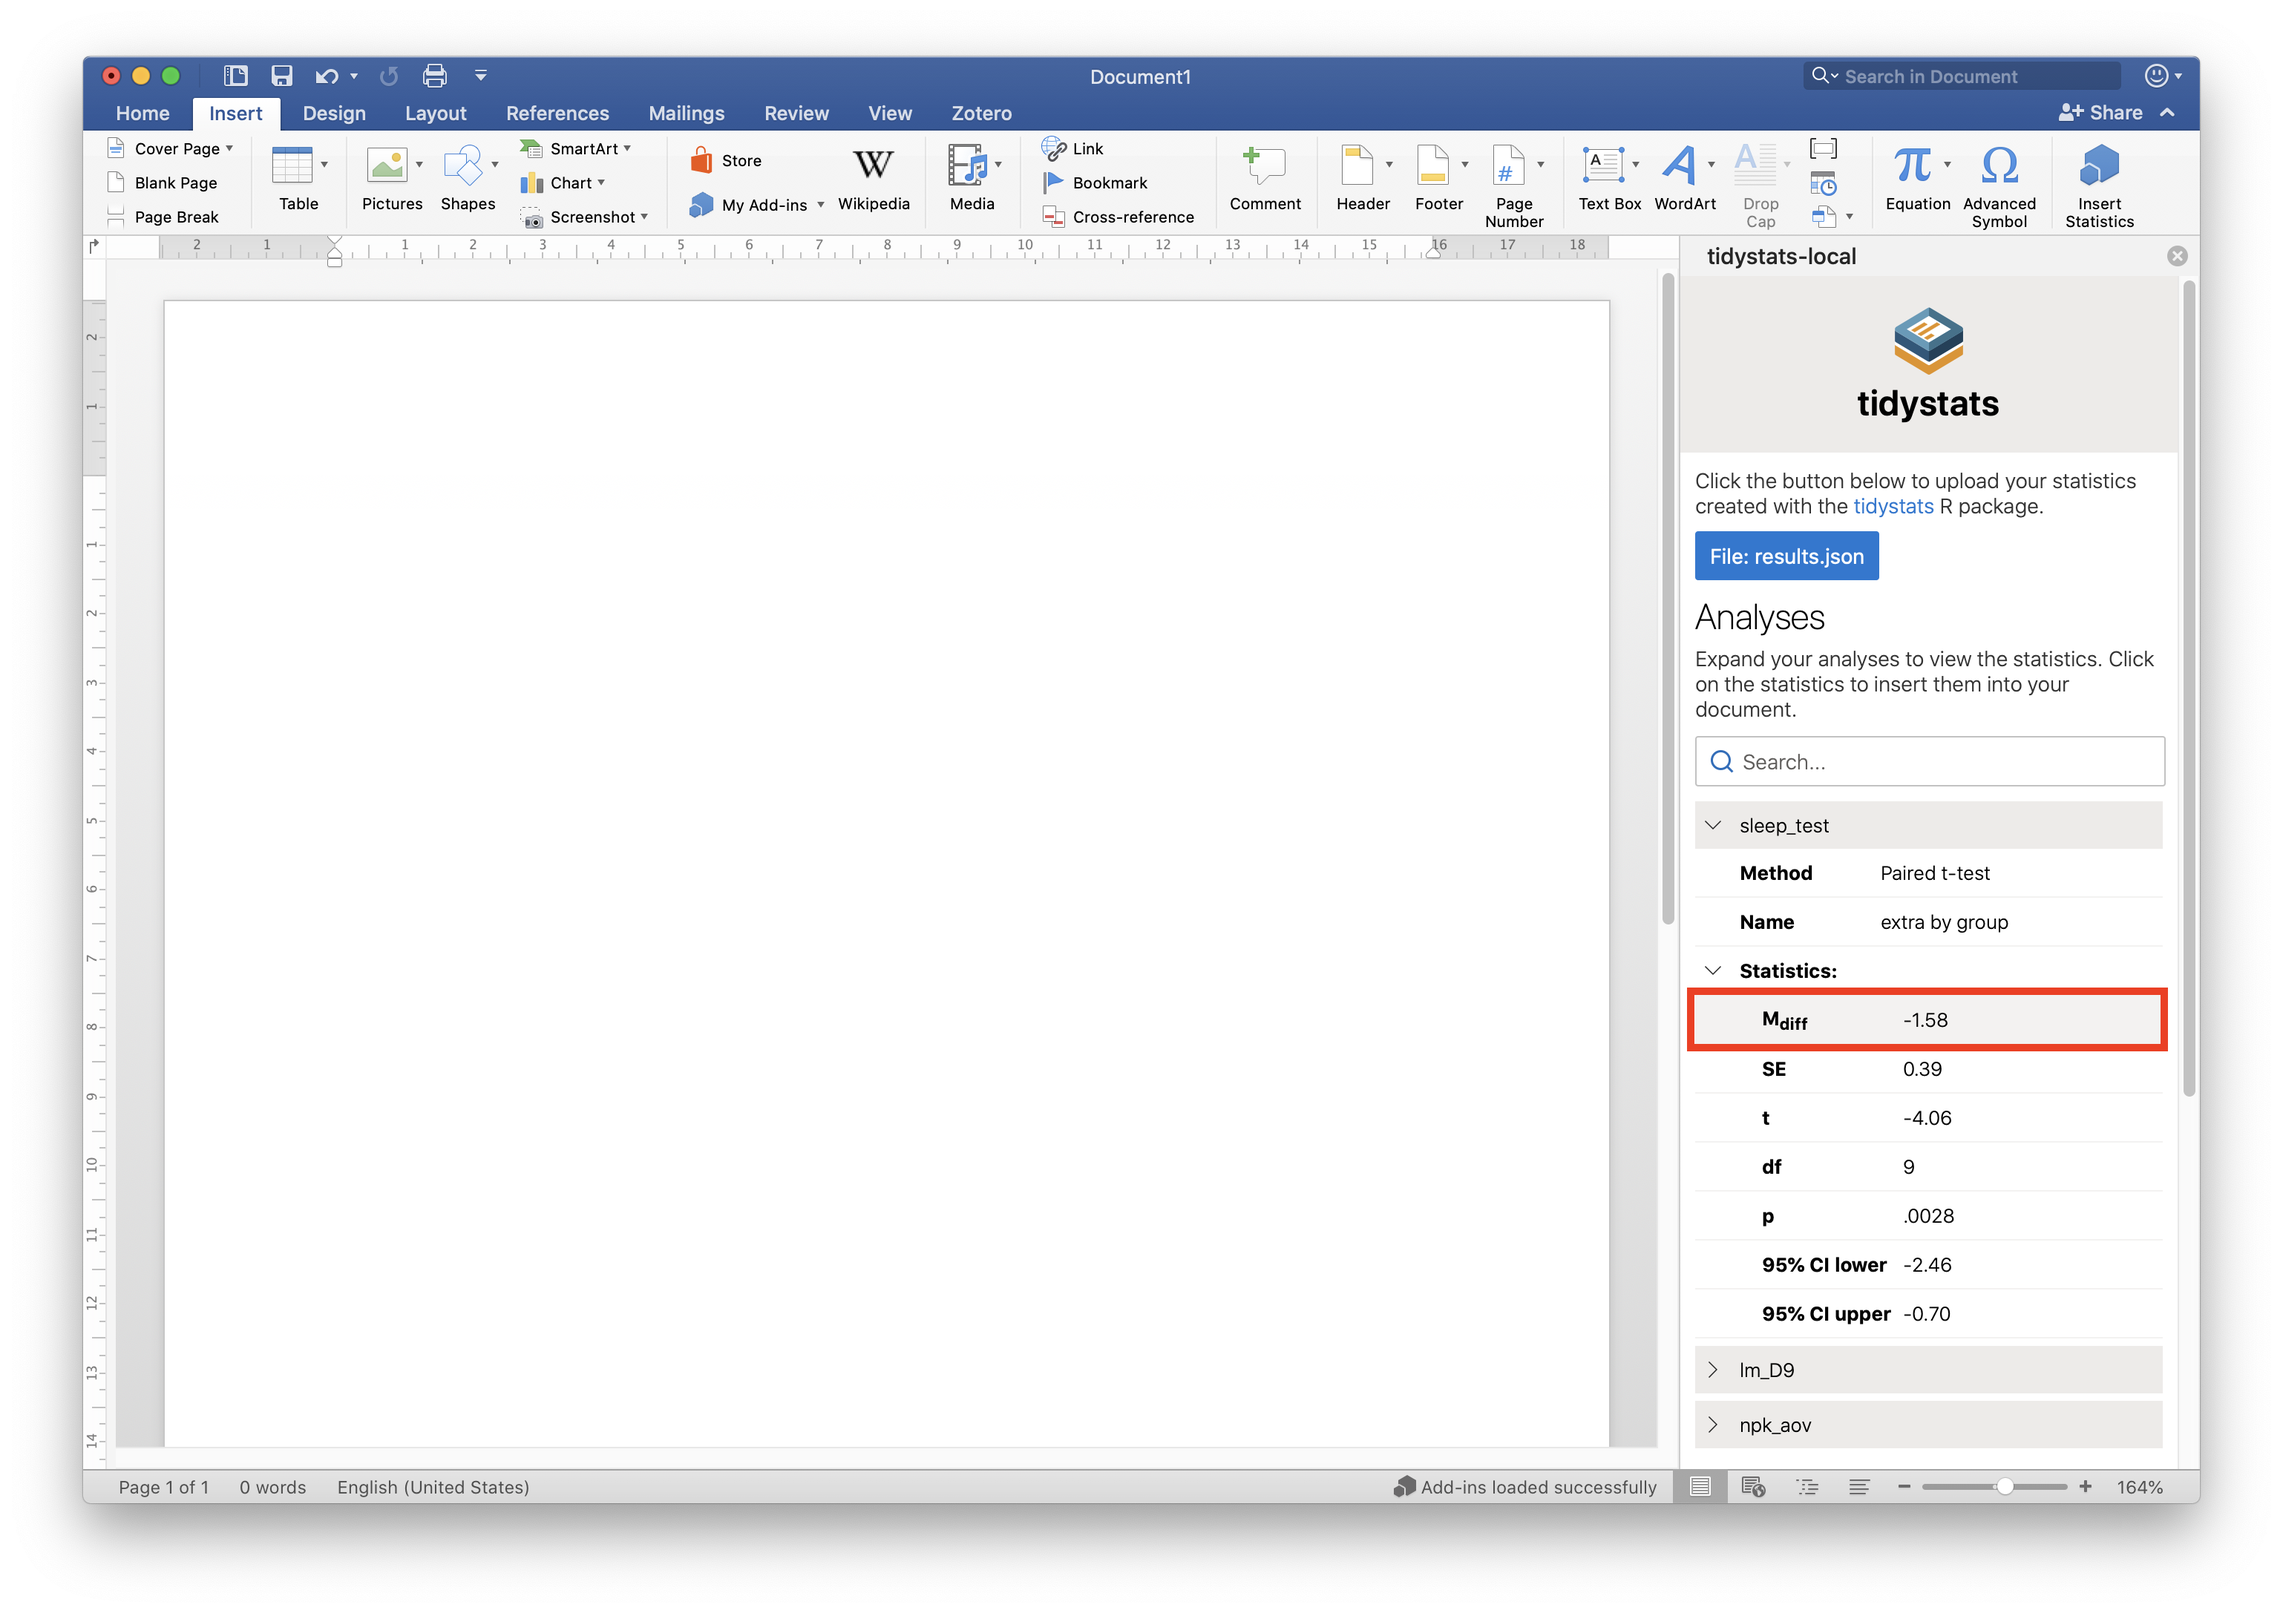
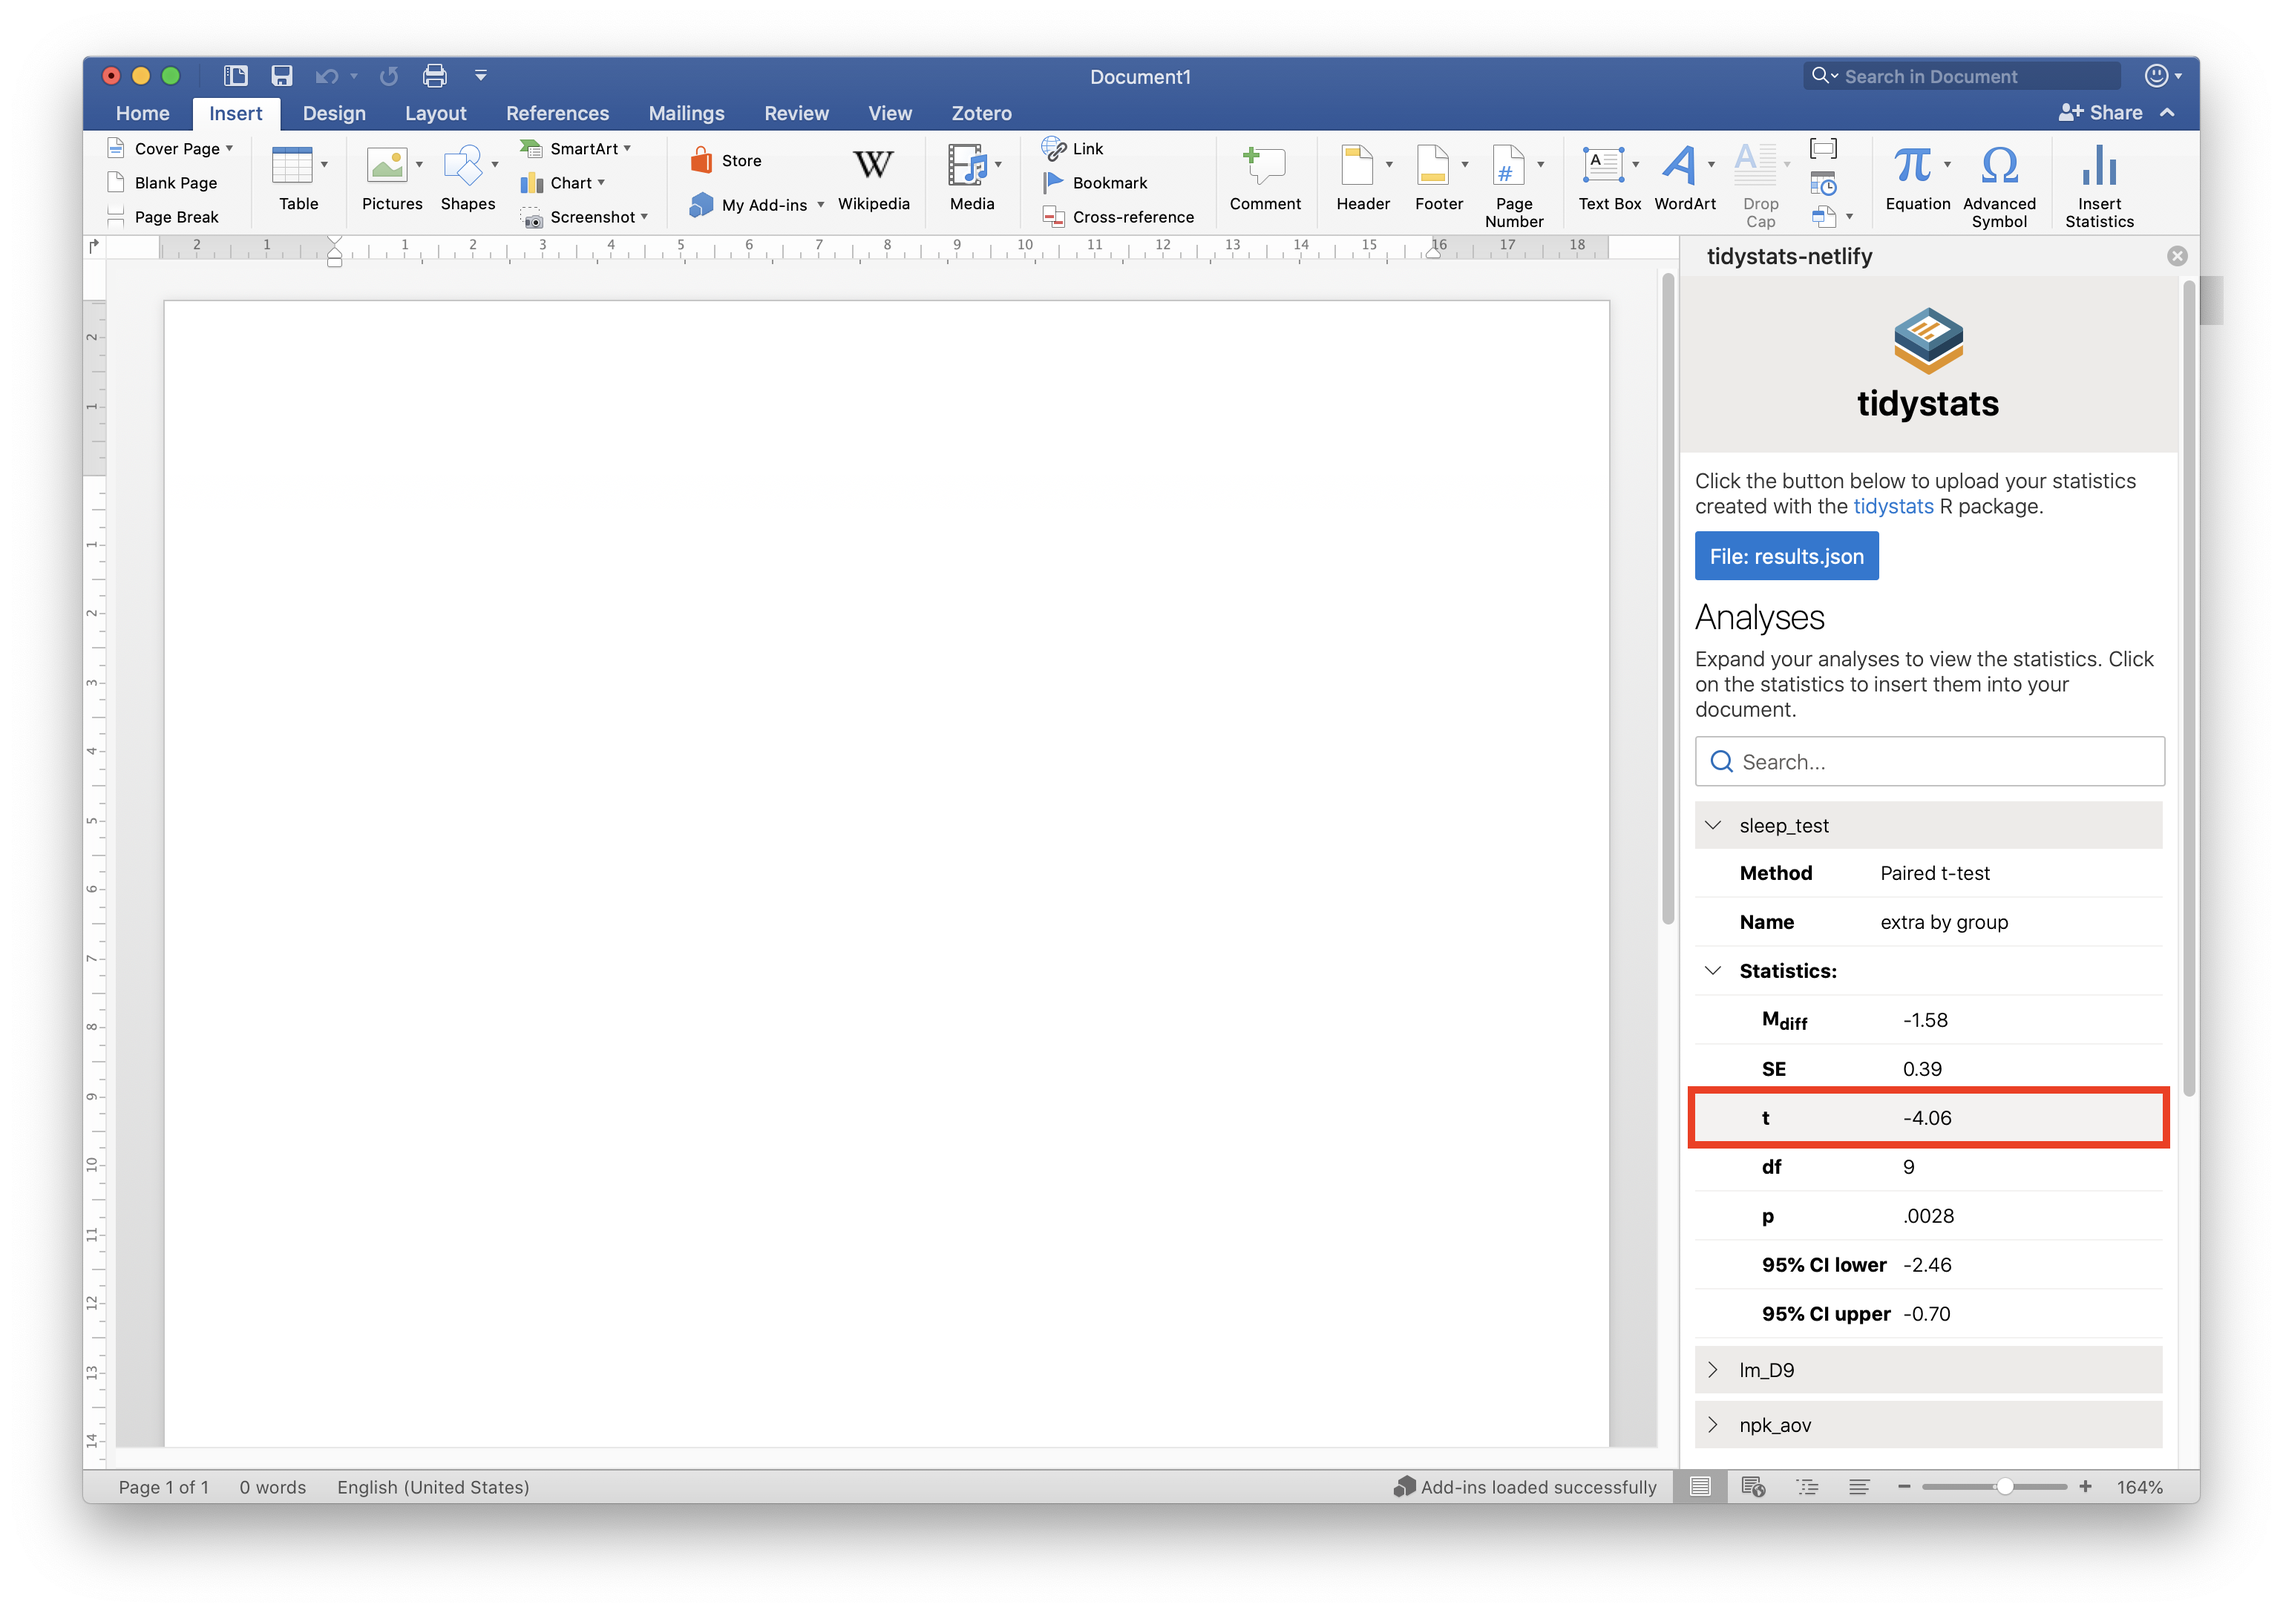
Added netlify manifest and updated README

diff --git a/README.md b/README.md
@@ -29,47 +29,78 @@ If you simply want to try out the add-in, you can also use [this](data/example.j
 
 Once you have a file created with `tidystats` and you want to insert the statistics into your document, go to the Insert pane of your Word document and click on 'Insert Statistics'.
 
-![](assets/screens/screen_insert_x2_w_help.png)
+![](images/screen0.png)
 
 Next, click on 'Choose a file' and select the file you created with `tidystats`.
 
-![](assets/screens/screen_start_x2.png)
+![](images/screen1.png)
 
-This should reveal a list of your analyses, each with a name that identifies your analyses. You can use the Search textbox to search for your analyses. Click on one of the analyses to reveal its statistics. You can then click on the name of a statistic or set of statistics to insert them into your document.
+This should reveal a list of your analyses, each with a name that identifies your analysis. You can use the Search textbox to search for your analyses.
 
-![](assets/screens/screen_t_test_x2_w_help.png)
+![](images/screen2.png)
+
+Click on one of the analyses to reveal its statistics. You can then click on the name of a statistic or set of statistics to insert them into your document.
+
+![](images/screen3.png)
+
+By default, clicking on 'Statistics:' will insert all the statistics. If you only want to insert a subset of the analyses, click on the gear icon next to 'Statistics:' and select the statistics you would like to insert.
+
+![](images/screen4.png)
 
 If you want to update the statistics, simply choose a new file and click on the 'Update statistics' button. Note that this does require that your analyses have the same identifier as in the previous file.
 
-Finally, if you found the add-in useful, please cite the work. You can use the citation buttons to quickly insert a citation; thanks!
+Finally, if you found the add-in useful, please cite the software. You can use the citation buttons to quickly insert a citation; thanks!
 
 ## Supported statistical tests
 
 The following statistical tests, in R, are supported:
 
-Package: **stats**
+**Package:** stats
 
-- `t.test()`
-- `cor.test()`
-- `chisq.test()`
-- `wilcox.test()`
-- `fisher.test()`
-- `oneway.test()`
-- `aov()`
-- `lm()`
+    - `t.test()`
+    - `cor.test()`
+    - `chisq.test()`
+    - `wilcox.test()`
+    - `fisher.test()`
+    - `oneway.test()`
+    - `aov()`
+    - `lm()`
+    - `anova()`
+
+**Package:** lme4
+
+    - `lmer()`
+
+**Package:** lmerTest
+
+    - `lmer()`
+
+**Package:** BayesFactor
+
+    - `generalTestBF()`
+    - `lmBF()`
+    - `regressionBF()`
+    - `ttestBF()`
+    - `anovaBF()`
+    - `correlationBF()`
+    - `contingencyTableBF()`
+    - `proportionBF()`
+    - `meta.ttestBF()`
+
+**Package:** tidystats
+
+    - `describe_data()`
+    - `count_data()`
 
 ## More resources
 
-Please see the following links for more information on how to use `tidystats` R package.
-
-- [tidystats website](https://willemsleegers.github.io/tidystats/)
-- [www.willemsleegers.com/tidystats](https://www.willemsleegers.com/tidystats.html)
+For more information on tidystats, see its website at <a href="https://tidystats.io">https://tidystats.io</a>.
 
 If you have any questions about how to use `tidystats`, or suggestions for improvements, you can contact me on [Twitter](https://twitter.com/willemsleegers) or via [e-mail](mailto:tidystats@gmail.com).
 
 ## Testing
 
-The current release version of the add-in is 1.0. This means that the add-in is sort of feature complete, but there is still a lot of room for improvements and new features. If you want to help test these newer versions, you can install the development version of the add-in. For instructions on how to do this, see below.
+The current release version of the add-in is 1.0. This means that the add-in is sort of feature complete, but there is still a lot of room for improvements and new features. If you want to help test newer versions, you can install the development version of the add-in. For instructions on how to do this, see below.
 
 ### Installing the development version of tidystats for Word
 
@@ -87,7 +118,7 @@ That's it for Mac <3.
 
 #### Windows
 
-To install the add-in in Windows, see [this](https://docs.microsoft.com/en-us/office/dev/add-ins/testing/create-a-network-shared-folder-catalog-for-task-pane-and-content-add-ins) webpage. When you copy the path to the shared folder, make sure it is a valid path (When I copied the path in step 5 of 'Share a folder' it also added some extra text to the front and end of the path).
+To install the add-in in Windows, see [this](https://docs.microsoft.com/en-us/office/dev/add-ins/testing/create-a-network-shared-folder-catalog-for-task-pane-and-content-add-ins) webpage.
 
 ### Bugs and feature requests
 
